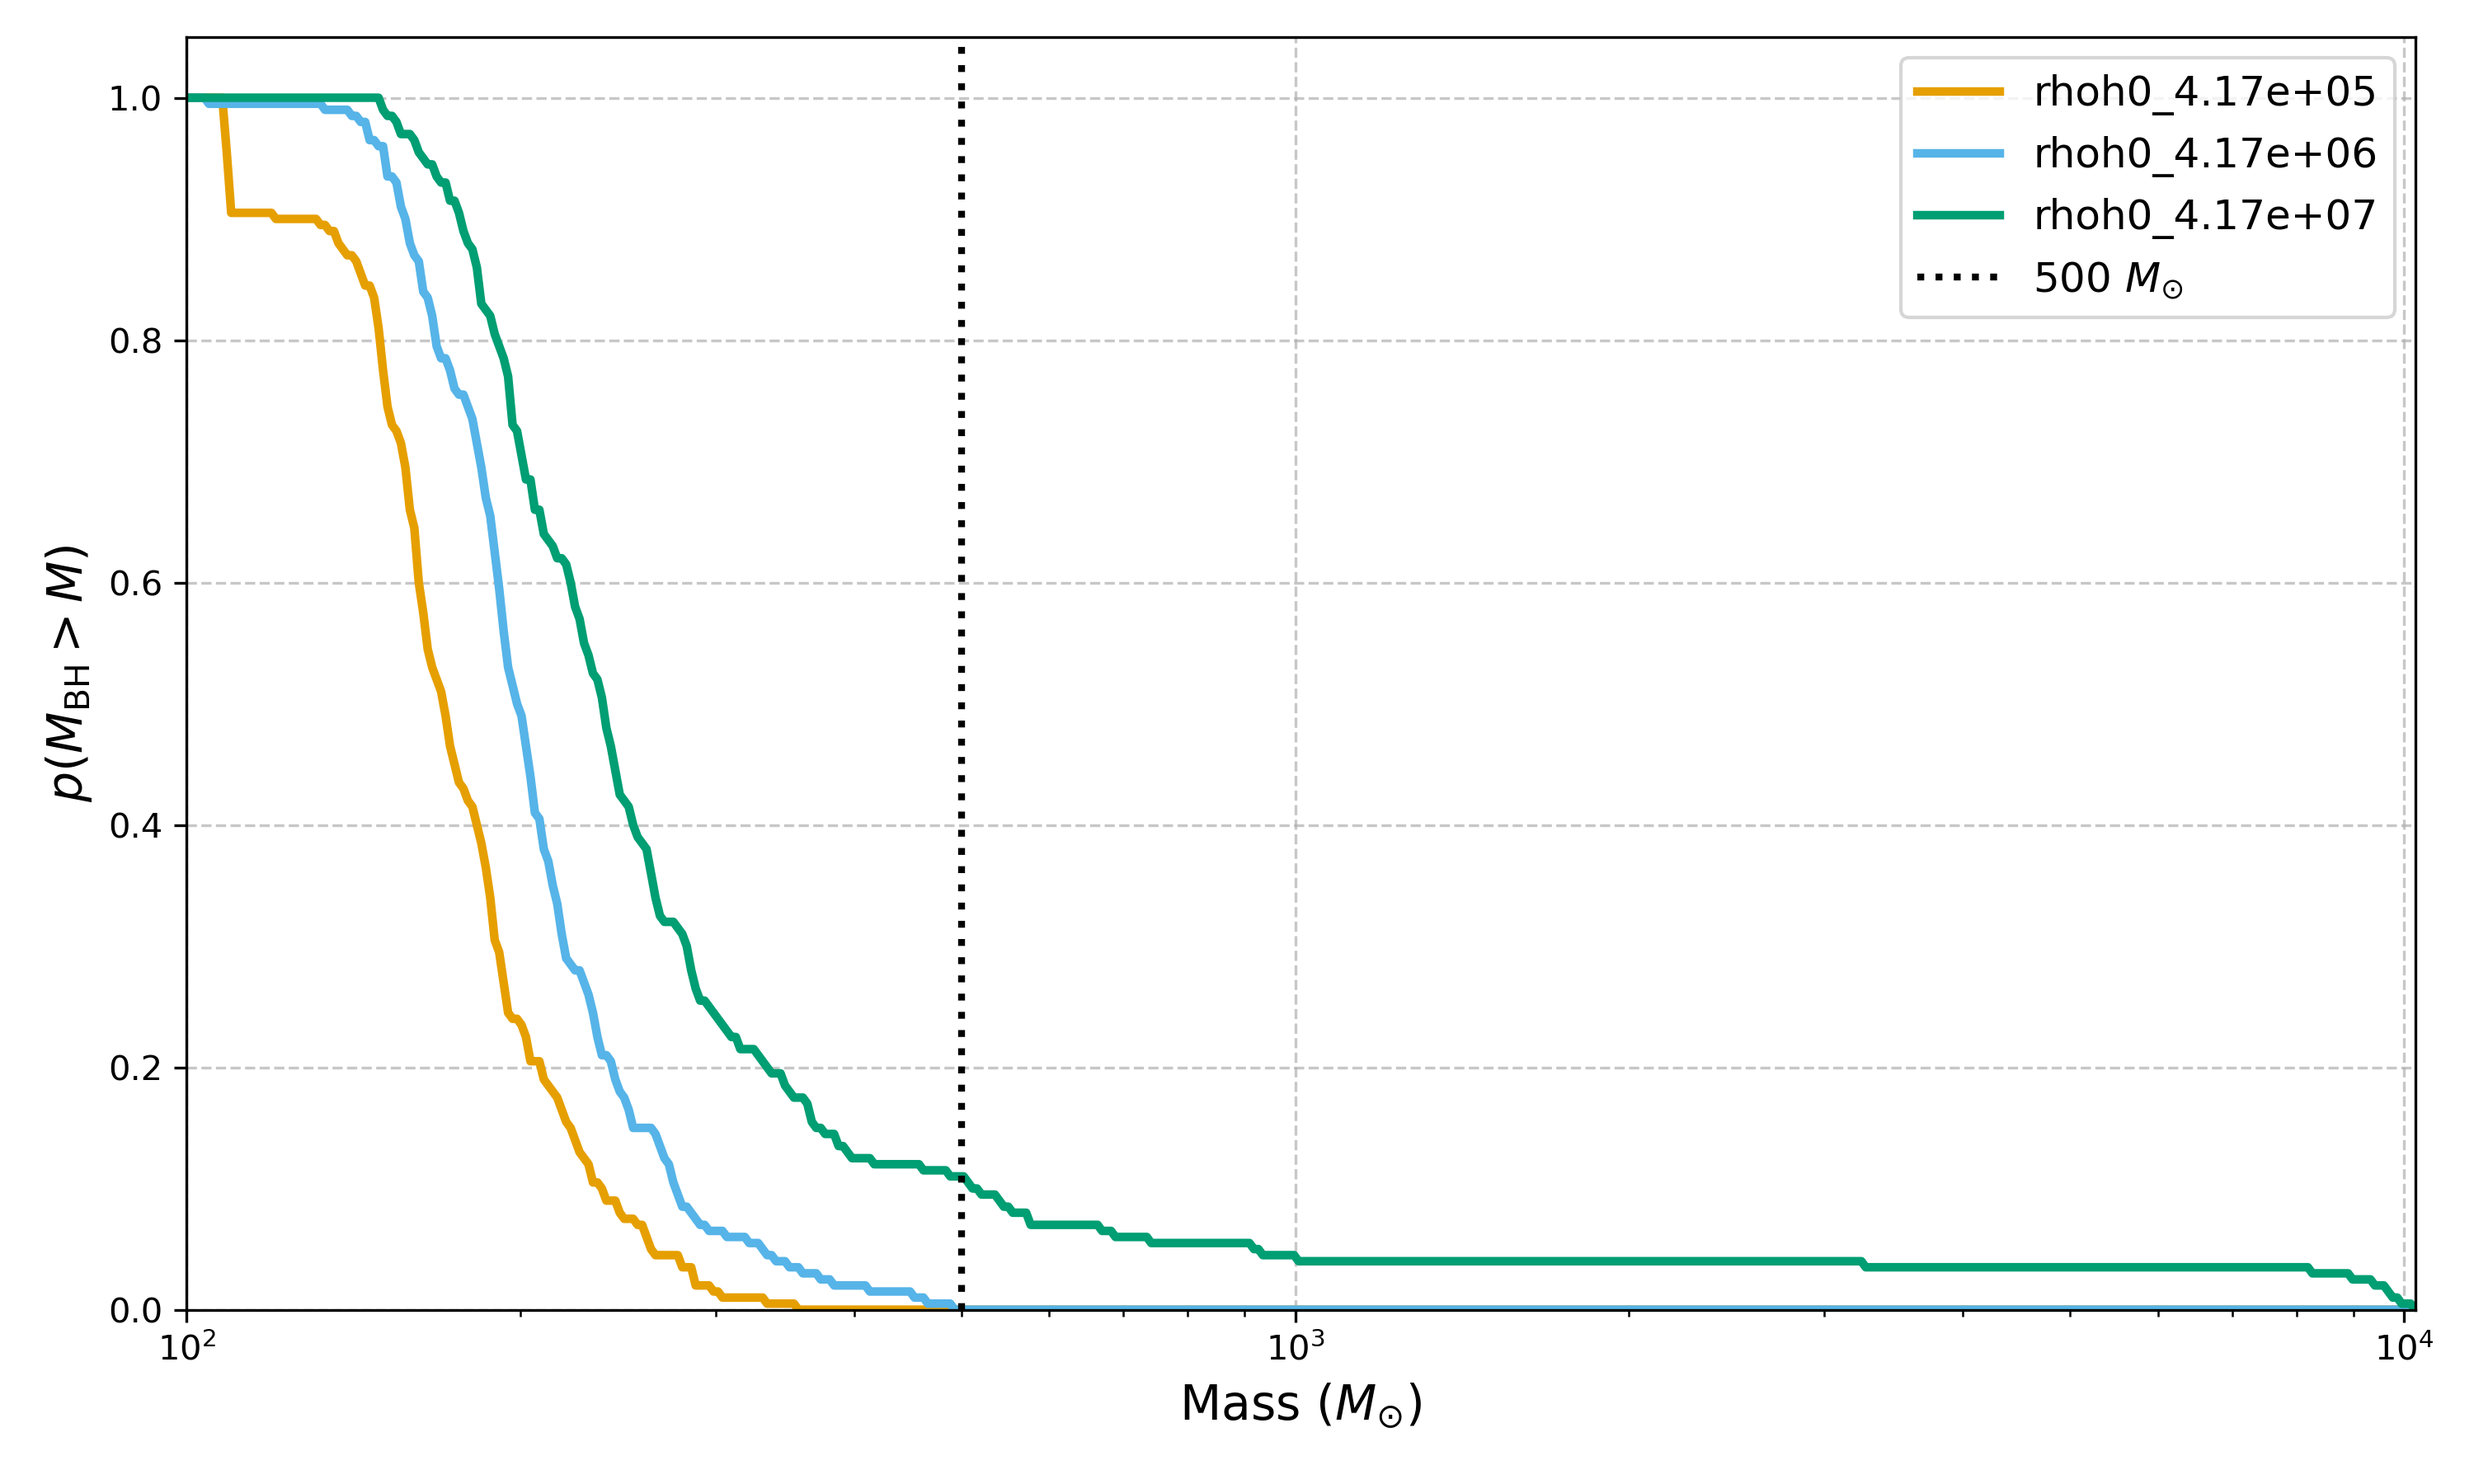
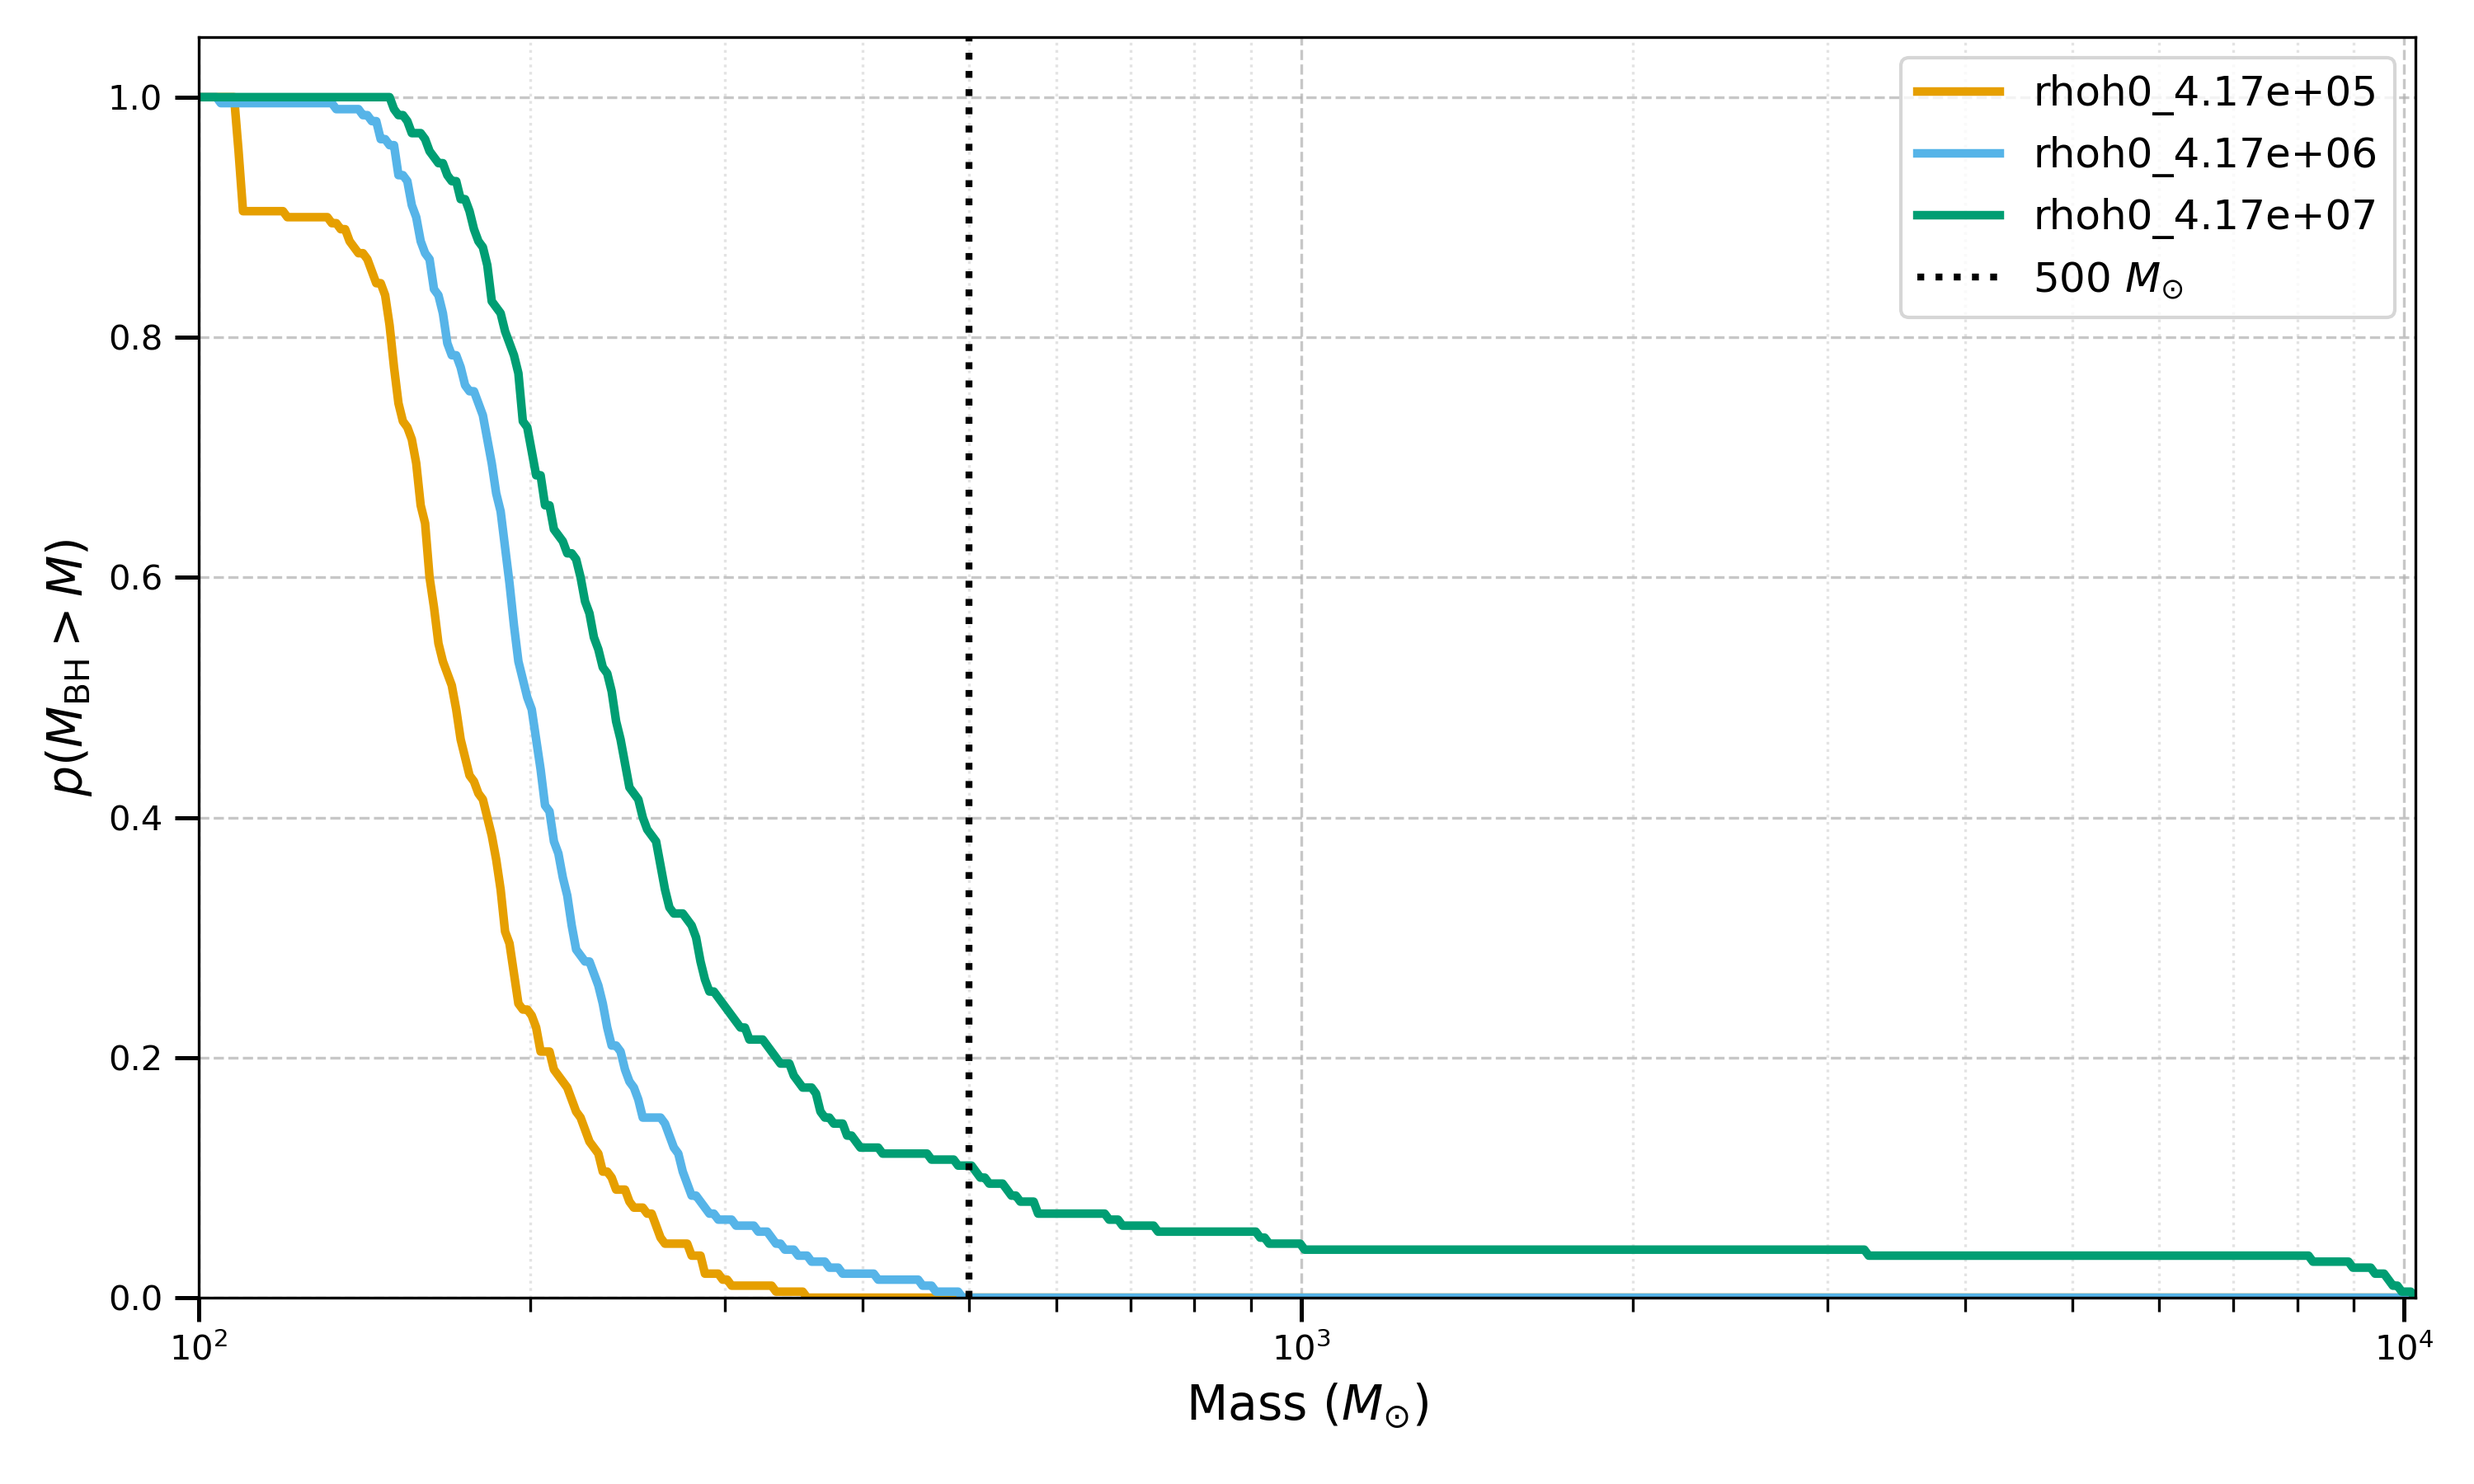
updated plots

diff --git a/analyse_many_results.py b/analyse_many_results.py
@@ -46,45 +46,6 @@ def get_config_name(config_dict):
     return "_".join(PARAM_LABEL[k](config_dict[k]) for k in CONFIG_KEYS)
 
 
-# def parse_config_from_folder(folder_name):
-#     """
-#     Fallback: parse the folder name back into a config dict.
-#     Only used if the stats blocks are missing/unreadable.
-#     """
-#     config = {}
-#     parts = folder_name.split('_')
-#     key_map = {
-#         'M0': float, 'rhoh0': float, 'FeH': float, 'rg': float, 'tend': float,
-#         'Mvir': float, 'cHalo': float,
-#     }
-#     bool_map = {
-#         'RantalaSeed': ('rantala_imbh_seed', True),  'StdSeed': ('rantala_imbh_seed', False),
-#         'ExtIMF':      ('chattopadhyay_seed', True), 'StdIMF':  ('chattopadhyay_seed', False),
-#         'GalpyPot':    ('galpy_potential', True),    'StdPot':  ('galpy_potential', False),
-#     }
-#     i = 0
-#     while i < len(parts):
-#         part = parts[i]
-#         if part in key_map and i + 1 < len(parts):
-#             try:
-#                 val = key_map[part](parts[i + 1])
-#                 config['M_vir' if part == 'Mvir' else 'c_halo' if part == 'cHalo' else part] = val
-#                 i += 2
-#                 continue
-#             except ValueError:
-#                 pass
-#         if part in bool_map:
-#             config[bool_map[part][0]] = bool_map[part][1]
-#             i += 1
-#             continue
-#         i += 1
-
-#     # Defaults so label generation can never KeyError
-#     for k in CONFIG_KEYS:
-#         config.setdefault(k, False if k in ('rantala_imbh_seed', 'chattopadhyay_seed', 'galpy_potential') else 0.0)
-#     return config
-
-
 def load_config_data(config_dir):
     """
     Reads all run_*/data.json under a config folder.
@@ -164,10 +125,10 @@ def main():
         return
 
     # X-axis grid: 100 to biggest IMBH formed across all runs
-    x_min = 100.0
+    x_min = 100
     x_max = global_max_mass
     if x_max <= x_min:
-        print(f"[Warning] Largest IMBH ({x_max:.1f} Msun) <= {x_min:.0f} Msun; "
+        print(f"Largest IMBH ({x_max:.1f} Msun) <= {x_min:.0f} Msun; "
               f"extending axis to 1e3 for a valid log plot.")
         x_max = 1e3
     mass_thresholds = np.logspace(np.log10(x_min), np.log10(x_max), 500)
@@ -196,7 +157,7 @@ def main():
             label = folder_name if len(folder_name) <= 40 else folder_name[:37] + "..."
 
         plt.plot(mass_thresholds, probs, label=label,
-                 color=COLOURS[i+1 % len(COLOURS)], linewidth=2.5)
+                 color=COLOURS[(i+1) % len(COLOURS)], linewidth=2.5)
 
     plt.axvline(x=500, color=COLOURS[0], linestyle=':', linewidth=2, label='500 $M_{\odot}$')
 
@@ -206,16 +167,70 @@ def main():
     plt.ylabel(r'$p(M_{\text{BH}} > M)$', fontsize=14)
     plt.xlim(x_min, x_max)
     plt.ylim(0, 1.05)
-    plt.grid(True, linestyle='--', alpha=0.7)
+   
 
-    
+    # Major and minor ticks 
+    ax = plt.gca()
+
+    # Tick appearance
+    ax.tick_params(axis='both', which='major', length=7, width=1.2)
+    ax.tick_params(axis='both', which='minor', length=4, width=0.8)
+
+    plt.grid(True, which='major', linestyle='--', alpha=0.7)
+    plt.grid(True, which='minor', linestyle=':', alpha=0.35)
     plt.legend( fontsize=12, title_fontsize=13, loc='best')
+    
     plt.tight_layout()
 
     output_path = parent_path / args.output_file
     plt.savefig(output_path, dpi=300)
     plt.close()
     print(f"\nPlot saved to {output_path}")
+    
+    
+    
+    # Plotting Overlaid Histograms
+    fig, ax = plt.subplots(figsize=(10, 6))
+    
+    # Define a common bin array so all histograms are directly comparable
+    bins = np.logspace(np.log10(x_min), np.log10(x_max), 50)
+    
+    for i, folder_name in enumerate(sorted(all_data.keys())):
+        masses = all_data[folder_name]['masses']
+        config = all_data[folder_name]['config']
+        
+        if varying_params:
+            label = ", ".join(PARAM_LABEL[k](config[k]) for k in varying_params)
+        else:
+            label = folder_name if len(folder_name) <= 40 else folder_name[:37] + "..."
+            
+        color = COLOURS[(i + 1) % len(COLOURS)]
+        
+        # We use histtype='step' with a thick line. This is the cleanest way to overlay 
+        # multiple distributions without the colors blending into a muddy mess.
+        ax.hist(masses, bins=bins, histtype='step', linewidth=2.5, 
+                color=color, label=label, zorder=10-i)
+        
+        # Add a very faint shaded fill under the line for easier visual tracking
+        ax.hist(masses, bins=bins, histtype='stepfilled', alpha=0.15, 
+                color=color, zorder=2)
+
+    ax.set_xlabel('Retained Merger Product Mass ($M_{\odot}$)', fontsize=14)
+    ax.set_ylabel('Number of Mergers', fontsize=14)
+    plt.axvline(x=500, color=COLOURS[0], linestyle=':', linewidth=2, label='500 $M_{\odot}$', zorder=100)
+ 
+    # A log scale on the y-axis is highly recommended for merger mass distributions
+    ax.set_yscale('log') 
+    ax.set_xscale('log') 
+    ax.grid(True, linestyle='--', alpha=0.6, which='both')
+    ax.legend(fontsize=11, loc='best')
+    
+    plt.tight_layout()
+    
+    hist_path = parent_path / "mass_histograms.png"
+    plt.savefig(hist_path, dpi=300)
+    plt.close()
+    print(f"\nPlot saved to {hist_path}")
 
 
 if __name__ == "__main__":

diff --git a/single_model.py b/single_model.py
@@ -117,7 +117,7 @@ def main():
         chattopadhyay_seed=chattopadhyay_seed,
         verbose=False,
         a_slopes=[-0.3, -1.65, -2.3], 
-        m_breaks=[0.08, 0.4, 1, 300],    # Extended IMF with upper limit 300 Msun
+        m_breaks=[0.08, 0.4, 1, 250],    # Extended IMF with upper limit 250 Msun
         galpy_potential=galpy_potential,
         M_vir=M_vir,
         conc=c_halo,
